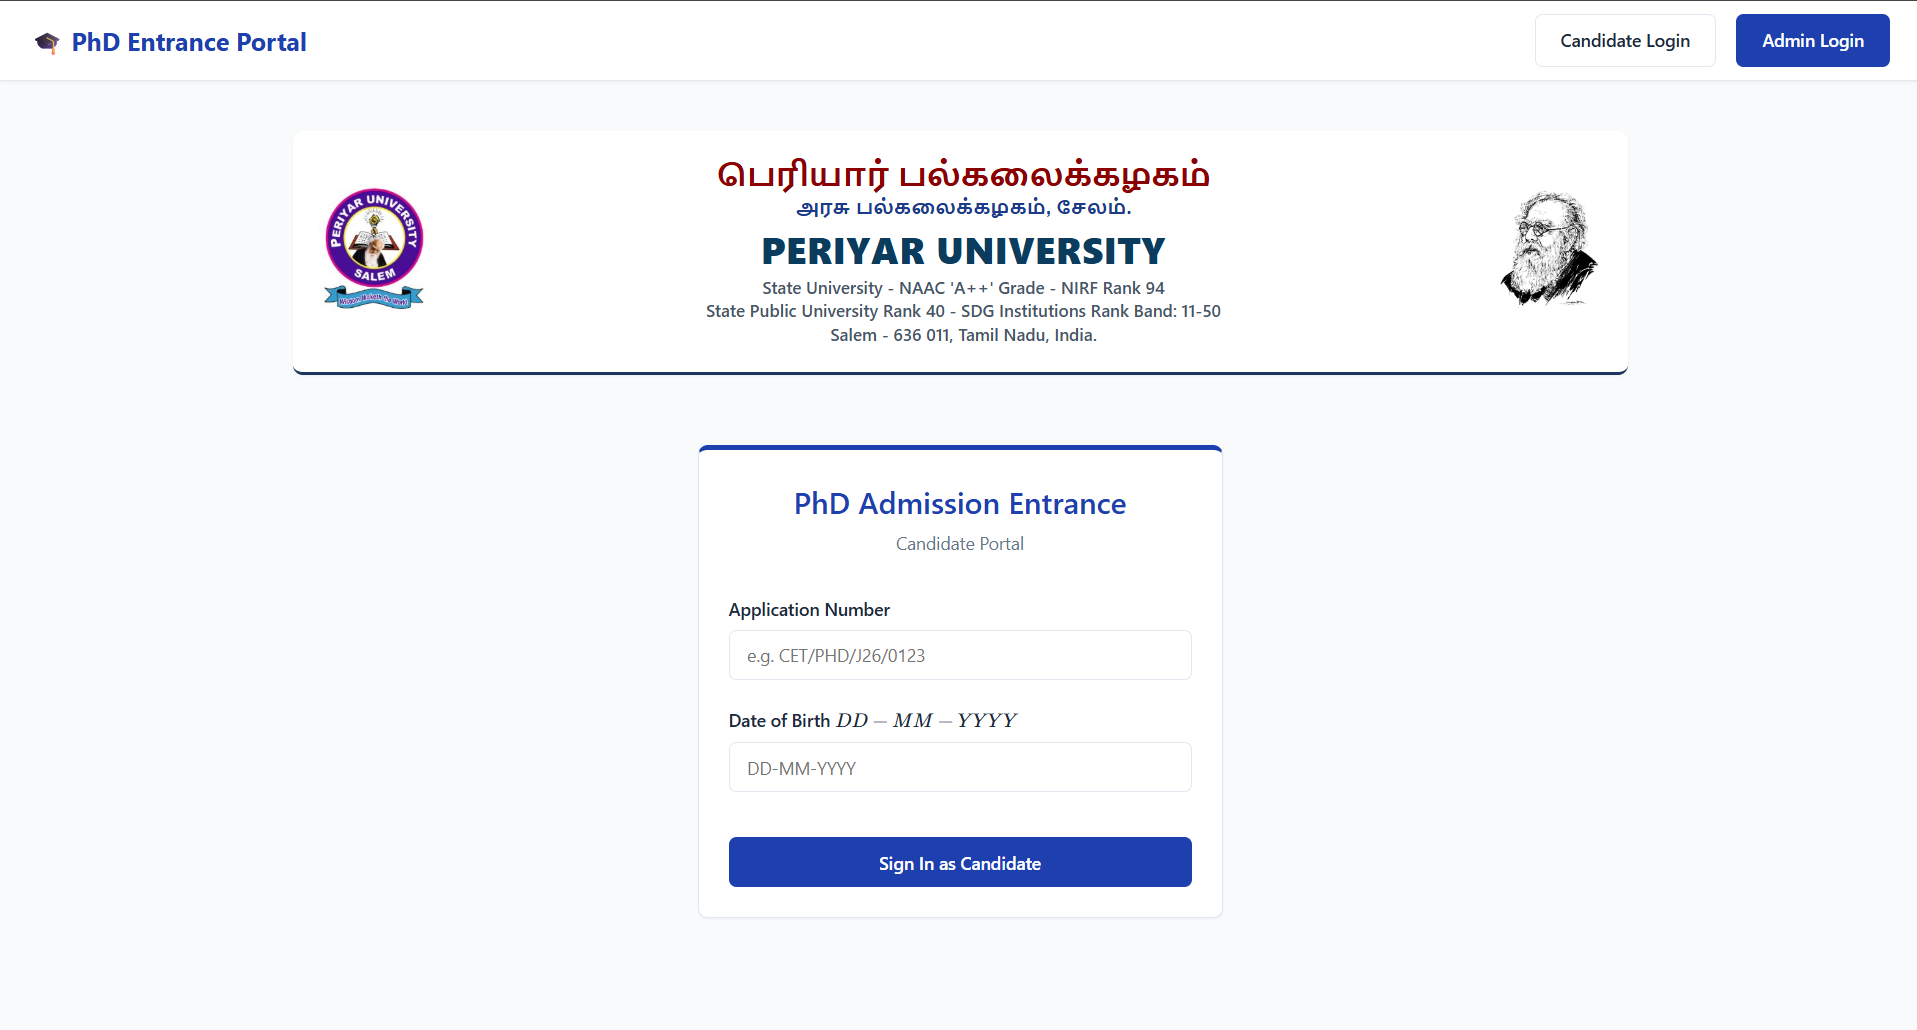
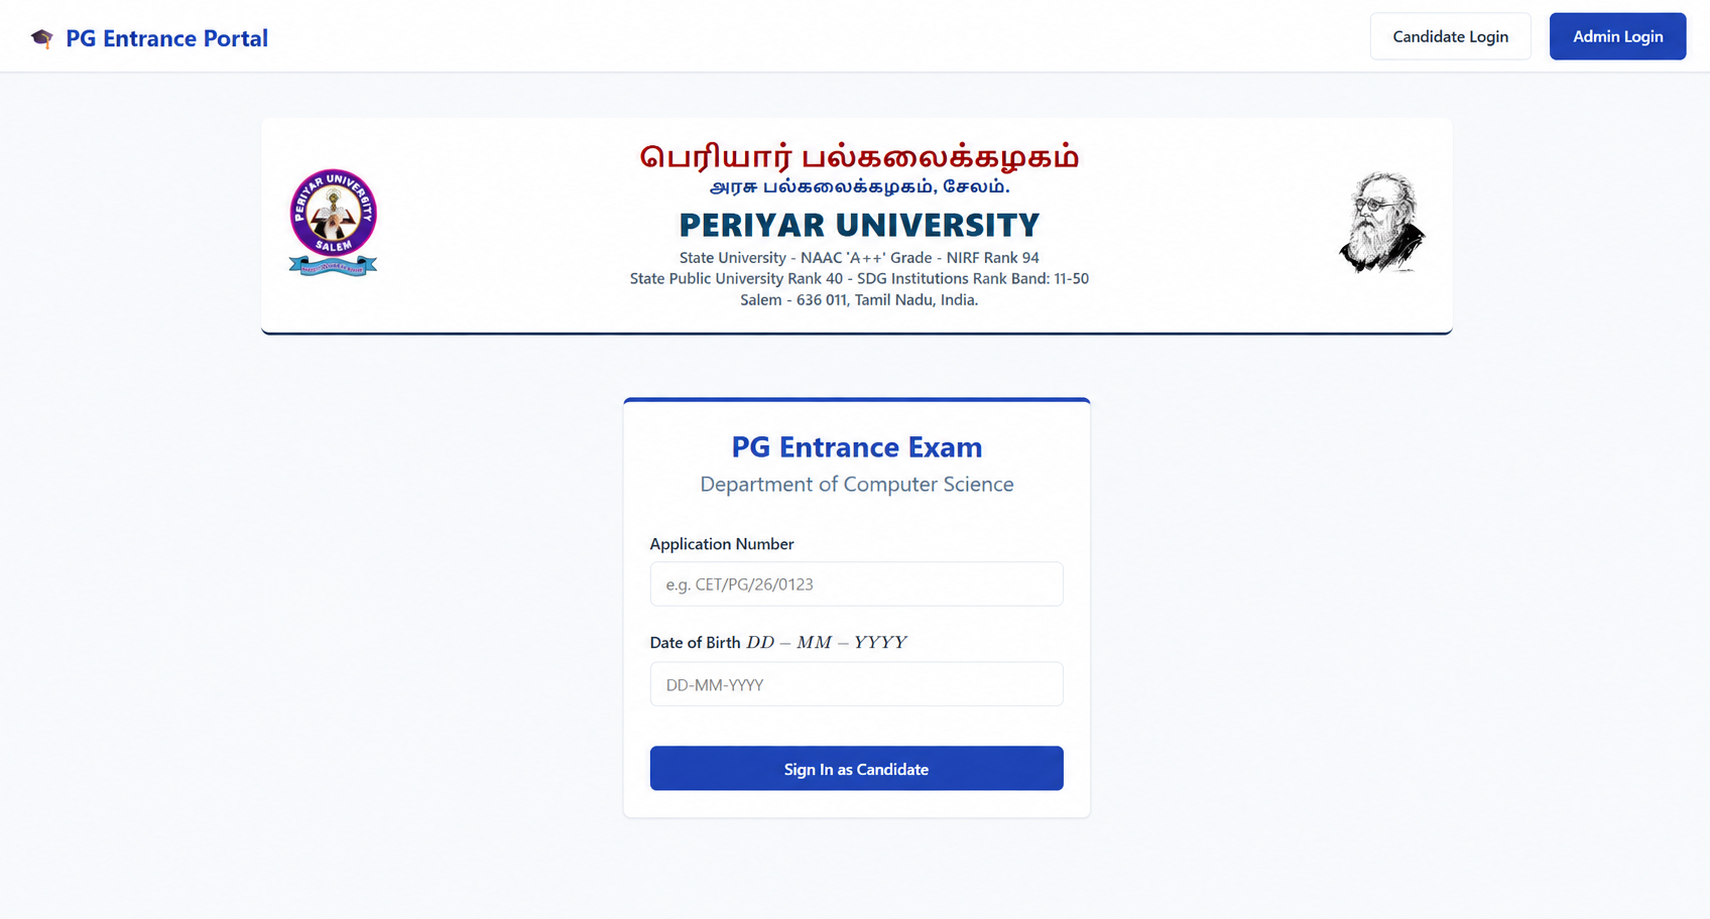
feat: add online-exam project screenshot asset

diff --git a/src/components/sections/certificatesData.js b/src/components/sections/certificatesData.js
@@ -5,7 +5,7 @@ export const certificateCategories = [
   { id: 'course', label: 'Course Certifications' },
   { id: 'project', label: 'Project Credentials' }
 ];
-
+pdate
 export const certificatesList = [
   {
     id: 'nptel-python',
